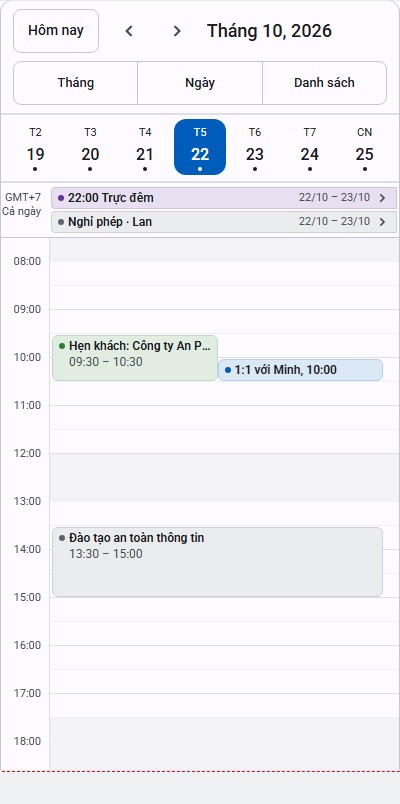
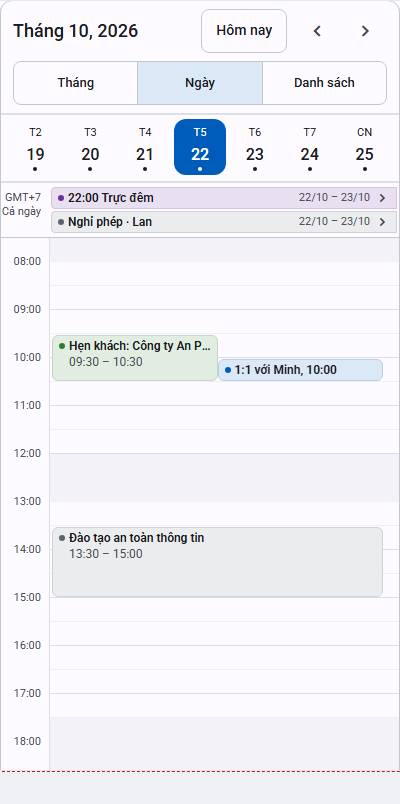
test(calendar): screenshots of TESTING §9 next to the design sections
- New screenshot tests at 960px: the four views, the week in dark and RTL,
  the block states (selected, pending, failed, past), the interactions
  (sweep, drag, resize, grid cursor, scope bar), the loading and empty
  states, and the narrow layout at 390px of host width.
- Only the Bangkok project writes pictures, so the UTC run no longer replaces
  them with GMT+0 labels. RTL is set on the calendar host: on <html> it also
  flips the docs page, whose sidebar then covers the example.
- design-*.png are the matching sections of SD Calendar Design.dc.html.
- The 1280-named pictures (taken at ~760px in the docs column) and the
  cropped mobile-390.png are replaced by the 960px and 390px sets.
- CAL-E-06 also checks the focus after Esc (SC-29, R2 A-18).

R2 A-21.

Changed region(s): [[0.03, 0.0, 0.84, 0.1555], [0.9, 0.0311, 0.93, 0.0622]]

diff --git a/showcase/e2e/components/calendar.e2e.ts b/showcase/e2e/components/calendar.e2e.ts
@@ -94,12 +94,29 @@ async function axe(page: Page, root: Locator): Promise<void> {
   const handle = await root.elementHandle();
   const violations = await page.evaluate(async element => {
     const result = await window.axe.run(element!);
-    return result.violations.filter(item => item.impact === 'serious' || item.impact === 'critical').map(item => `${item.id} (${item.impact})`);
+    return result.violations
+      .filter(item => item.impact === 'serious' || item.impact === 'critical')
+      .map(item => `${item.id} (${item.impact})`);
   }, handle);
   expect(violations).toEqual([]);
 }
 
+/**
+ * Right-to-left on the calendar host only: `dir` on <html> also flips the docs page, whose sidebar then covers the
+ * example.
+ */
+async function rtl(root: Locator, on: boolean): Promise<void> {
+  await root.evaluate((element, value) => {
+    const host = element.parentElement!;
+    if (value) host.setAttribute('dir', 'rtl');
+    else host.removeAttribute('dir');
+  }, on);
+}
+
 async function shot(root: Locator, name: string): Promise<void> {
+  // why: every test runs in both zone projects; only the Bangkok run writes, so a UTC run does not replace the
+  // pictures with GMT+0 labels (R2 A-21).
+  if (test.info().project.name !== 'asia-bangkok') return;
   mkdirSync(SHOTS, { recursive: true });
   await root.screenshot({ path: resolve(SHOTS, `${name}.png`), animations: 'disabled' });
 }
@@ -119,7 +136,6 @@ test.describe('sd-calendar', () => {
     await expect(created).toHaveAttribute('data-end', '2026/10/20 15:30:00');
     await expect(created).toHaveAttribute('data-selected', 'true');
     await axe(page, root);
-    await shot(root, 'week-1280-light');
   });
 
   test('[CAL-E-02] closes the dialog: no new block, no band', async ({ page }) => {
@@ -253,7 +269,6 @@ test.describe('sd-calendar', () => {
     await root.locator('button[data-view-option="month"]').click();
     await root.locator('[role="gridcell"][data-date="2026/10/22"] [data-more]').click();
     await expect(root).toHaveAttribute('data-from', '2026/10/22');
-    await shot(root, 'day-1280-light');
   });
 
   test('[CAL-E-12] keeps view and date in the URL and restores them', async ({ page }) => {
@@ -298,16 +313,9 @@ test.describe('sd-calendar', () => {
     await shot(root, 'compact-400');
   });
 
-  test('[CAL-E-01] stays readable in dark, RTL, forced colors and reduced motion', async ({ page }) => {
+  // Dark and RTL pictures come from the 960px set below.
+  test('[CAL-E-01] stays readable in forced colors and reduced motion', async ({ page }) => {
     const root = await open(page, 'playground');
-    await page.evaluate(() => document.documentElement.setAttribute('data-sd-theme', 'dark'));
-    await shot(root, 'week-1280-dark');
-    await page.evaluate(() => {
-      document.documentElement.removeAttribute('data-sd-theme');
-      document.documentElement.setAttribute('dir', 'rtl');
-    });
-    await shot(root, 'week-1280-rtl');
-    await page.evaluate(() => document.documentElement.removeAttribute('dir'));
     await page.emulateMedia({ forcedColors: 'active', reducedMotion: 'reduce' });
     await block(root, 'client').click();
     await shot(root, 'week-forced-colors');
@@ -323,19 +331,25 @@ test.describe('sd-calendar', () => {
       });
       await button(page, 'playground-many').click();
       await expect(root.locator('[data-event-id^="bulk-"]').first()).toBeVisible();
-      samples.push(await page.evaluate(() => new Promise<number>(done => requestAnimationFrame(() => done(performance.now() - window.__t0)))));
+      samples.push(
+        await page.evaluate(() => new Promise<number>(done => requestAnimationFrame(() => done(performance.now() - window.__t0))))
+      );
     }
     samples.sort((a, b) => a - b);
     test.info().annotations.push({ type: 'render-500-median-ms', description: samples[2].toFixed(1) });
     await page.evaluate(() => {
       window.__long = [];
-      new PerformanceObserver(list => list.getEntries().forEach(entry => window.__long.push(entry.duration))).observe({ entryTypes: ['longtask'] });
+      new PerformanceObserver(list => list.getEntries().forEach(entry => window.__long.push(entry.duration))).observe({
+        entryTypes: ['longtask'],
+      });
     });
     await drag(page, root.locator('[data-event-id^="bulk-"]').first(), await at(root, '2026/10/24', 600));
     const longTasks = await page.evaluate(() => window.__long);
     test.info().annotations.push({ type: 'drag-long-tasks-ms', description: JSON.stringify(longTasks) });
     // §10: the numbers go to the report; a budget overrun is reported at review, not failed here.
-    console.log(`[calendar perf] render 500 median ${samples[2].toFixed(1)}ms (budget 150), long tasks while dragging ${JSON.stringify(longTasks)} (budget 50)`);
+    console.log(
+      `[calendar perf] render 500 median ${samples[2].toFixed(1)}ms (budget 150), long tasks while dragging ${JSON.stringify(longTasks)} (budget 50)`
+    );
   });
 });
 
@@ -345,7 +359,6 @@ test.describe('sd-calendar · mobile', () => {
   test('[CAL-E-13] taps to create, swipes the day and shows the strip', async ({ page }) => {
     const root = await open(page, 'playground');
     await expect(root).toHaveAttribute('data-compact', 'true');
-    await shot(root, 'mobile-390');
     const point = await at(root, '2026/10/22', 16 * 60 + 10);
     await page.touchscreen.tap(point.x, point.y);
     await expect(root.locator('[data-create-ghost][data-pending]')).toBeVisible();
@@ -374,5 +387,151 @@ test.describe('sd-calendar · Kolkata', () => {
     await page.setViewportSize({ width: 1920, height: 1000 });
     const root = await open(page, 'playground');
     await expect(block(root, 'client')).toHaveAttribute('data-start', '2026/10/22 09:30:00');
+  });
+});
+
+/**
+ * Gives the calendar box of an example a fixed size, like the frames of the design HTML. The docs column is narrower
+ * than 960px and clips its preview, so the box is pinned to the top left of the viewport above the page.
+ */
+async function frame(root: Locator, width: number, height = 640): Promise<void> {
+  await root.evaluate(
+    (element, size) => {
+      const box = element.closest<HTMLElement>('.calendar-box');
+      if (!box) return;
+      Object.assign(box.style, {
+        position: 'fixed',
+        top: '0',
+        left: '0',
+        zIndex: '1000',
+        width: `${size.width}px`,
+        height: `${size.height}px`,
+      });
+    },
+    { width, height }
+  );
+}
+
+// TESTING §9: the items of SD Calendar Design.dc.html at the same widths, for the side-by-side table of the report.
+test.describe('sd-calendar · screenshots (TESTING §9)', () => {
+  test.beforeEach(async ({ page }, info) => {
+    test.skip(info.project.name !== 'asia-bangkok', 'the screenshots come from the Bangkok project');
+    await page.setViewportSize({ width: 1920, height: 1000 });
+  });
+
+  test('[CAL-E-01] the four views at 960px, the week in dark and RTL', async ({ page }) => {
+    const root = await open(page, 'playground');
+    await frame(root, 960);
+    await expect(root).not.toHaveAttribute('data-compact', 'true');
+    await shot(root, 'week-960-light');
+    await page.evaluate(() => document.documentElement.setAttribute('data-sd-theme', 'dark'));
+    await shot(root, 'week-960-dark');
+    await page.evaluate(() => document.documentElement.removeAttribute('data-sd-theme'));
+    await rtl(root, true);
+    await shot(root, 'week-960-rtl');
+    await rtl(root, false);
+    for (const view of ['day', 'month', 'agenda']) {
+      await root.locator(`button[data-view-option="${view}"]`).click();
+      await expect(root).toHaveAttribute('data-view', view);
+      await shot(root, `${view}-960-light`);
+    }
+  });
+
+  test('[CAL-E-03] block states and interactions at 960px', async ({ page }) => {
+    const root = await open(page, 'playground');
+    await frame(root, 960);
+    await expect(root).not.toHaveAttribute('data-compact', 'true');
+    await block(root, 'client').click();
+    await expect(block(root, 'client')).toHaveAttribute('data-selected', 'true');
+    await shot(root, 'block-selected');
+
+    // Sweep, drag and resize are pictured mid-gesture, then cancelled with Esc.
+    const start = await at(root, '2026/10/20', 840);
+    const end = await at(root, '2026/10/20', 930);
+    await page.mouse.move(start.x, start.y);
+    await page.mouse.down();
+    await page.mouse.move(end.x, end.y, { steps: 6 });
+    await expect(root.locator('[data-create-ghost]')).toBeVisible();
+    await shot(root, 'interaction-sweep');
+    await page.keyboard.press('Escape');
+    await page.mouse.up();
+
+    await drag(page, block(root, 'budget'), await at(root, '2026/10/23', 14 * 60 + 5), async () => {
+      await expect(root.locator('[data-drag-proposal]')).toBeVisible();
+      await shot(root, 'interaction-drag');
+      await page.keyboard.press('Escape');
+    });
+
+    await block(root, 'budget').hover();
+    const handle = (await block(root, 'budget').locator('[data-resize-handle]').boundingBox())!;
+    await page.mouse.move(handle.x + handle.width / 2, handle.y + handle.height / 2);
+    await page.mouse.down();
+    await page.mouse.move(handle.x + handle.width / 2, handle.y + handle.height / 2 + 48, { steps: 6 });
+    await shot(root, 'interaction-resize');
+    await page.keyboard.press('Escape');
+    await page.mouse.up();
+
+    await root.locator('[data-region="time-grid"]').focus();
+    await page.keyboard.press('ArrowDown');
+    await expect(root.locator('[data-cursor]')).toBeVisible();
+    await shot(root, 'interaction-cursor');
+
+    await block(root, 'standup-20261019').focus();
+    await page.keyboard.press('Alt+ArrowDown');
+    await expect(root.locator('[role="alertdialog"]')).toBeVisible();
+    await shot(root, 'interaction-scope');
+    await page.keyboard.press('Escape');
+
+    await setMoveMode(page, 'slow');
+    await block(root, 'client').focus();
+    await page.keyboard.press('Alt+ArrowDown');
+    await expect(block(root, 'client')).toHaveAttribute('data-pending', 'true');
+    await shot(root, 'block-pending');
+    await expect(block(root, 'client')).not.toHaveAttribute('data-pending', 'true', { timeout: 5000 });
+
+    await setMoveMode(page, 'reject');
+    await block(root, 'client').focus();
+    await page.keyboard.press('Alt+ArrowDown');
+    await expect(block(root, 'client')).toHaveAttribute('data-failed', 'true');
+    await shot(root, 'block-failed');
+    await root.locator('button[data-action="dismiss"]').click();
+
+    await page.getByRole('button', { name: 'dimPast: false' }).click();
+    await expect(root.locator('[data-past]').first()).toBeVisible();
+    await shot(root, 'block-past');
+  });
+
+  test('[CAL-E-14] loading and empty states', async ({ page }) => {
+    const server = await open(page, 'server');
+    await button(page, 'server-reload').click();
+    await expect(server.locator('[role="progressbar"]')).toBeVisible();
+    await shot(server, 'state-loading');
+    await expect(server.locator('[role="progressbar"]')).toHaveCount(0, { timeout: 5000 });
+
+    const root = await open(page, 'playground');
+    await frame(root, 960);
+    // Without the demo holidays, the agenda after the last November stand-up has nothing to list.
+    await page.getByRole('button', { name: 'holidays: true' }).click();
+    await root.locator('button[data-view-option="agenda"]').click();
+    await expect(root.locator('[role="progressbar"]')).toHaveCount(0);
+    for (let index = 0; index < 8 && (await root.locator('[data-agenda-day]').count()) > 0; index++) {
+      const from = await root.getAttribute('data-from');
+      await root.locator('button[data-action="next"]').click();
+      await expect(root).not.toHaveAttribute('data-from', from!);
+      // why: a new range clears the list until its events arrive; count only after the load.
+      await expect(root.locator('[role="progressbar"]')).toHaveCount(0);
+    }
+    await expect(root.locator('[data-agenda-day]')).toHaveCount(0);
+    await shot(root, 'state-empty');
+  });
+
+  test('[CAL-E-17] the narrow layout at 390px of host width, light and dark', async ({ page }) => {
+    const root = await open(page, 'playground');
+    await frame(root, 390, 760);
+    await expect(root).toHaveAttribute('data-compact', 'true');
+    await shot(root, 'mobile-390-light');
+    await page.evaluate(() => document.documentElement.setAttribute('data-sd-theme', 'dark'));
+    await shot(root, 'mobile-390-dark');
+    await page.evaluate(() => document.documentElement.removeAttribute('data-sd-theme'));
   });
 });
